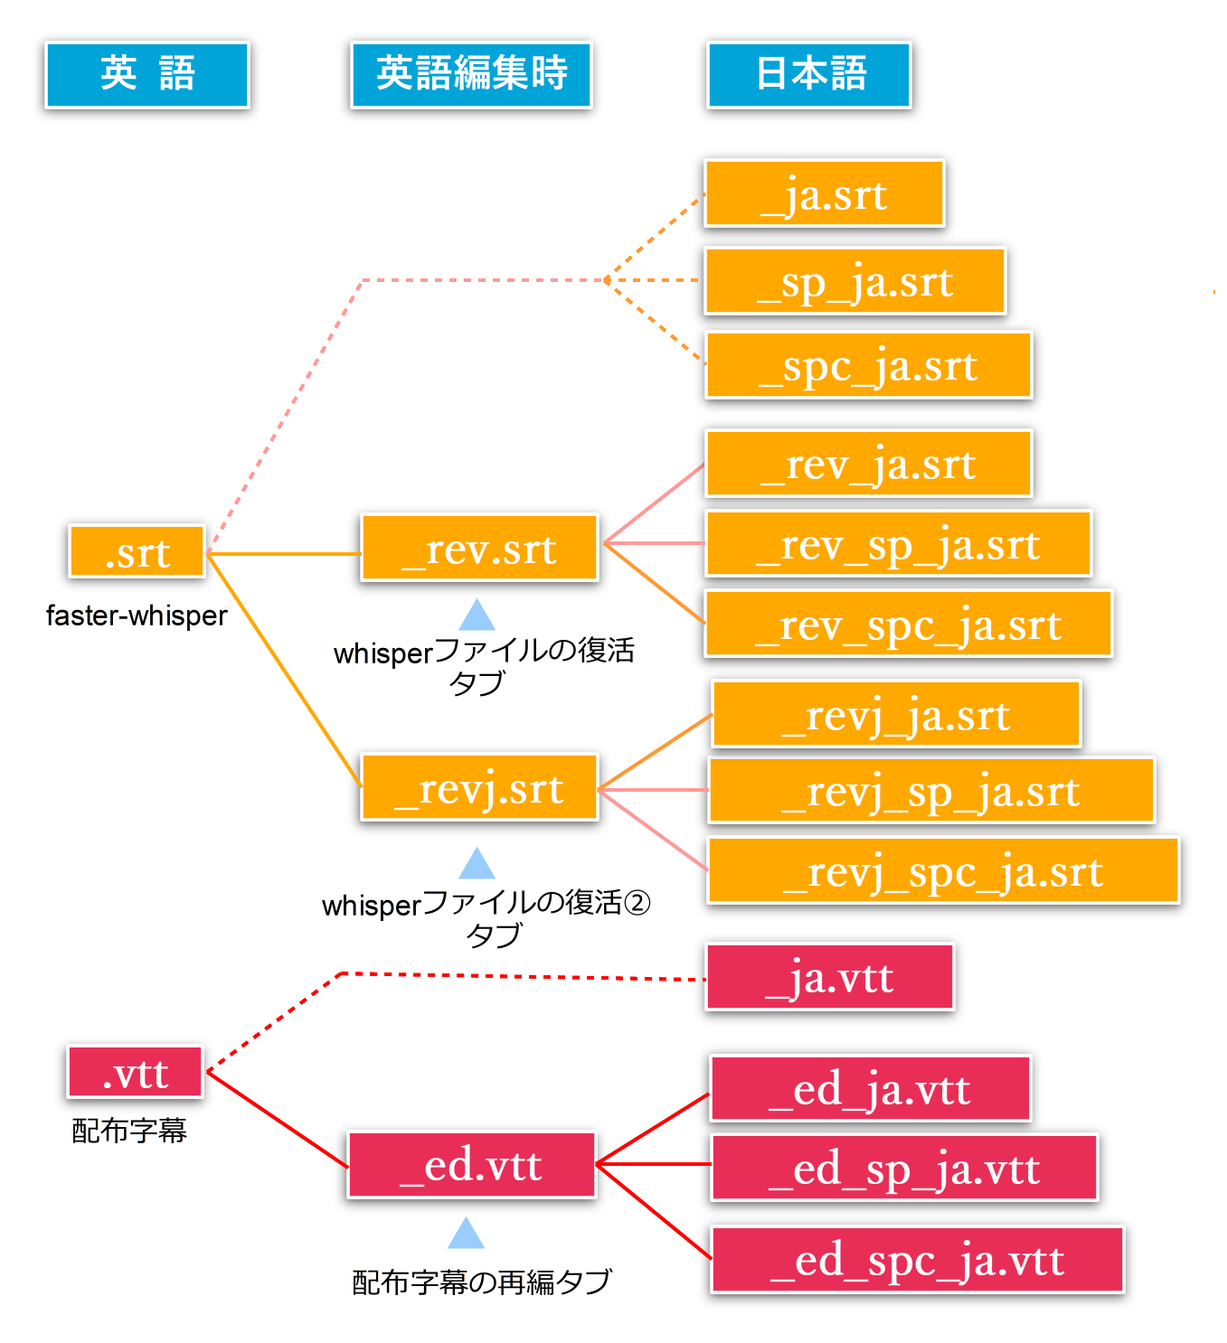
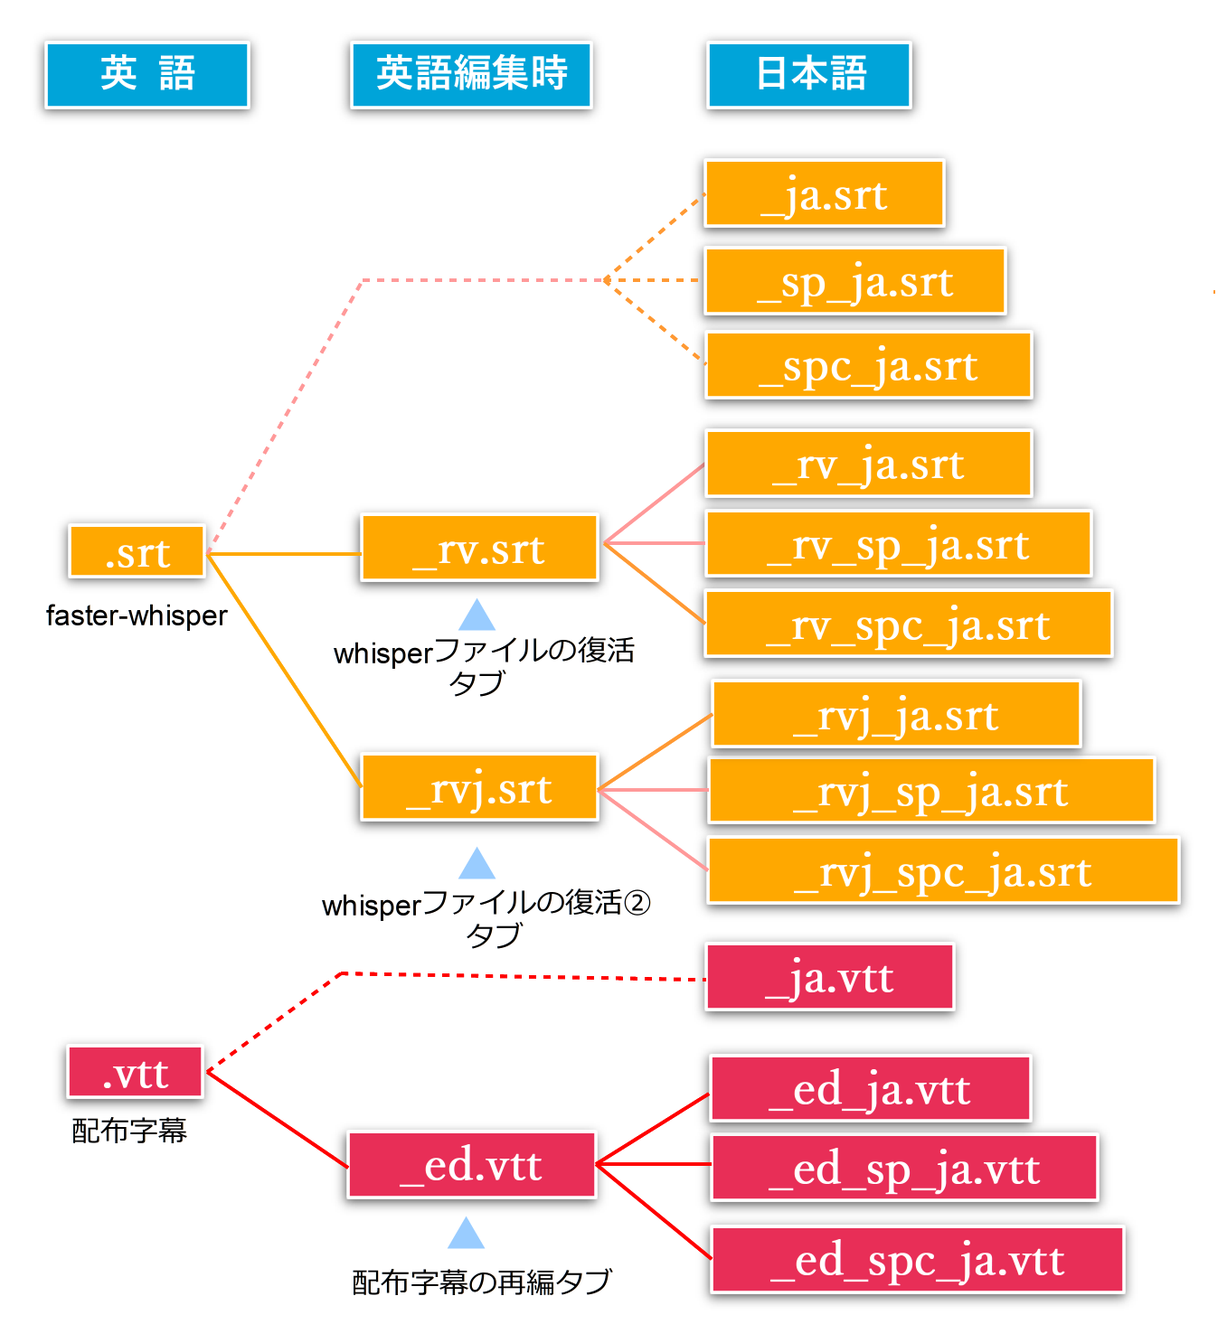
Add files via upload

diff --git a/index.html b/index.html
@@ -249,9 +249,9 @@
                             </div>
                             <!-- 下段のコンテナ -->
                             <div class="card-bottom">
-                                <div class="card-desc"> <strong class="marker_purple">字幕編集/変換アプリ</strong>です。<strong>配布されている字幕</strong>を<span style="color:rgba(41, 164, 96, 0.586);font-weight:bold;">ピリオド区切り</span>のセグメントに再編すること、
+                                <div class="card-desc"><strong class="marker_purple">字幕編集/変換アプリ</strong>です。<strong>配布されている字幕</strong>を<span style="color:rgba(41, 164, 96, 0.586);font-weight:bold;">ピリオド区切り</span>のセグメントに再編すること、
                                     その他翻訳や日本語字幕の句点、読点区切りが可能です。
-                                    また、ピリオドのない英語字幕にピリオドを付加し、ピリオド区切りの英語字幕を作成します。
+                                    また、ピリオドのない英語字幕にピリオドを付加し、ピリオド区切りの英語字幕を作成します。日本語以外の言語に対応していく予定です。
                                 </div>
                             </div>
                         </div>
@@ -372,6 +372,13 @@
                             <p style="display:flex;gap:8px;"><span>※</span>最近新たに加わったlarge-v3-turboは検証しきれていませんが、CPUでも十分使えるのではないかと思っています。</p>
                         </div>
                     </div>
+                    <h3>参考（large-v3,v3-turbo,v2の言語別精度比較)</h3>
+                    <div class="orange_back" style="padding-bottom:15px">
+                        <div> 
+                            <img class="p2top" src="fwscore.png" alt="PeriOz2のトップ画像">
+                            <p style="text-align:center;"><a href="https://github.com/SYSTRAN/faster-whisper/issues/1030">https://github.com/SYSTRAN/faster-whisper/issues/1030</a>より拝借しています。</p>
+                        </div>
+                    </div>
                 </div>
                 <section class="PeriOz1-container" id="p1">
                     <h1 class="underline_blue">PeriOz 1</h1>
@@ -445,6 +452,12 @@
                                 <p>出力指定した出力場所に、既に動画と同じベースネームのjsonファイル、あるいは、srtファイルが存在する場合、当該動画ファイルの文字起こしはスキップされる仕組みになっています。</p>
                             </div>
                         </div>
+                        <h2>その他</h2> 
+                        <div class="blue_box_light"> 
+                            <p>このアプリの主軸は英語の文字起こしですが、日本語、スペイン語、ポルトガル語、ドイツ語、韓国語の文字起こしが可能です。</p> 
+                            <p>最近、Safe Modeという機能を付けました。少し所用時間が増えますがモデルを毎回読み込むことで、メモリのゴミを減らすことを目指しました。本当にSafeなのかは分かりません。</p> 
+                            <p>その他、ファイル名にモデル名やcomputetype名を付加する機能も付けました。ファイル名はPeriOz3の自動読み込みと連携させています。</p> 
+                        </div><br>
                         <h2>PeriOz1のスクリーンショット（現在は若干変わっています。）</h2>
                         <div class="sumaho">
                             <div class="blue_box_light">
@@ -541,9 +554,8 @@
                                 <dt>日本語srt,vtt字幕の句読点分割</dt>
                                 <dd>
                                     <p>英語字幕を日本語化すると、英語では一文とされていたものが、日本語では2つ以上の文章になることが多々あります。そこで、<span class="marker_yellow">句点分割</span>でsegmentを句点を基準に分割します。また、作成される字幕の長さを調整するために<span class="marker_yellow">読点分割</span>も可能です。<strong>デフォルトでは句点のみの分割</strong>です。</p>
-                                    <div style="margin-top:15px;">
-                                        読点分割を適用するにはサイドバーの<strong>「読点分割を有効にする」</strong>をONにして利用してください。サイドバーの句点分割、読点分割のトグルボタンをONにしておくと、他のタブでも句点分割、読点分割を実行できます（日本語化を伴うタブが対象）。
-                                        <p style="display:flex;margin-top:8px;"><span>※</span><span style="display:inline-block;width:8px;"></span><span>読点分割を行う際の設定は、サイドバーの<strong>「読点分割設定」</strong>欄にあり、設定情報をもとに分割を行います。</span> </p>
+                                    <div style="margin-top:15px;">読点分割を適用するにはサイドバーの<strong>「読点分割を有効にする」</strong>をONにして利用してください。サイドバーの句点分割、読点分割のトグルボタンをONにしておくと、他のタブでも句点分割、読点分割を実行できます（翻訳を伴うタブが対象）。
+                                        <p style="display:flex;margin-top:8px;"><span>※</span><span style="display:inline-block;width:8px;"></span><span>読点分割を行う際の設定は、サイドバーの<strong>「読点分割設定」</strong>欄にあり、設定情報をもとに分割を行います。ただ、設定された数字を厳密に適用すると不自然な分割となることが増えるため、調整を入れてあります。おおよその目安と考えてお使い下さい。</span> </p>
                                     </div>
                                 </dd>
                             </div>
@@ -552,7 +564,7 @@
                                 <dd>
                                     <p><strong>字幕内の任意の単語を置換するための単語帳を作ります。</strong>サイドバーの「単語の置き換えを有効にする」がONになっていると各タブで自動的に単語の置き換えが実行されます（英語のファイルを生成する部分をもつTabが対象）。単語帳は3つまで作成できます。</p>
                                     <p style="margin-top:15px;">他の機能は実行したくないけれど、単語の置き換えのみしたい場合は、<strong>「その他」</strong>のタブに単語置き換え用のアコーディオンがありますのでご利用下さい。 </p>
-                                    <p style="margin-top: 15px;">単語帳の編集は概ね触ってみれば分かるかな？とも思いますが、<span class="marker_yellow">UIの制約ゆえ、登録してある単語を削除する場合だけ少し特殊です</span>。登録してある単語表の左側のチェックボックスをチェックしてキーボードにて<strong>Delete</strong>を押せば削除されます。その際、必ず<strong>「保存」</strong>ボタンをおしてください。単語表からは削除されますが、ファイルに記録するには<strong>「保存」</strong>ボタンを押す必要があります。その他の登録、編集は<strong>「保存」</strong>ボタンを押さなくてもファイル記録されます。特定の単語を削除したい場合は置き換える単語に$$$と入力すると、指定した元の単語が削除されます。</p>
+                                    <p style="margin-top: 15px;">単語帳の編集は概ね触ってみれば分かるかな？とも思いますが、<span class="marker_yellow">UIの制約ゆえ、登録してある単語を削除する場合だけ少し特殊です</span>。登録してある単語表の左側のチェックボックスをチェックしてキーボードにて<strong>Delete</strong>を押せば削除されます。その際、必ず<strong>「保存」</strong>ボタンをおしてください。単語表からは削除されますが、ファイルに記録するには<strong>「保存」</strong>ボタンを押す必要があります。その他の登録、編集は<strong>「保存」</strong>ボタンを押さなくてもファイル記録されます。特定の単語を削除したい場合は置き換える単語の欄に$$$と入力すると置き換え先が空欄になるため、字幕中の元の単語が削除されることになります。</p>
                                 </dd>
                             </div>
                             <div> 
@@ -561,6 +573,12 @@
                                     <p style="margin-bottom:8px;"> <strong>ピリオド区切りをする際に、意図しない分割が行われないようにするための管理帳を作成し、これに基づいて不要な分割を避けます。</strong>例えばDr.という単語を登録すると、ピリオドに基づく分割前にDr[dot]に変換され、分割後にDr.に戻すように処理されます。予め、私が調べた範囲のピリオド単語は登録済みです。Dot単語帳の操作はほぼ、単語置き換え管理と同じです。上と同様に削除のときだけ少し操作が特殊です。 </p>
                                     <p style="margin-bottom:8px;display:flex;"><span>※</span><span style="display:inline-block;width:8px;"> </span>これがないと、&quot;He is Dr.
                                     Mike.&quot;という文章が &quot;He is Dr.&quot;、&quot;Mike.&quot;というように2つの文に分けられてしまいます。</p>
+                                </dd>                                 
+                            </div>
+                            <div> 
+                                <dt>翻訳先言語</dt> 
+                                <dd>
+                                    <p ""><strong>翻訳先の言語を指定することで、翻訳後の句点,読点の区切り方が変更されます。また出力ファイル名につくドメインが変わります(掲載の国のうちの一部はまだ対応が終わっていません。)</strong></p>
                                 </dd>                                 
                             </div>
                         </div>
@@ -572,8 +590,8 @@
                                 <p style="margin-bottom:8px;">PeriOz1ではピリオドに基づく分割をした&nbsp;<span class="marker_yellow">basename.srt</span> が生成されます。配布されている字幕ファイルが<span class="marker_yellow"> basename.vtt </span>だったと仮定します。</p>
                                 <p style="margin-bottom:8px;">「<strong style="border-bottom:2px solid orange;">配布字幕の再編</strong>」タブで処理を行うと、<span class="marker_orange"> basename_ed.vtt</span> （edはeditedの略）が生成されます。</p>
                                 <p style="margin-bottom:8px;">faster-whisperの文字起こしで<strong>幻聴現象以外</strong>の欠点が出た場合、「<strong style="border-bottom:2px solid orange;">whisperファイルの復活①</strong>」あるいは「<strong style="border-bottom:2px solid orange;">whisperファイルの復活②</strong>」で処理をします。</p>
-                                <p style="margin-bottom:8px;">その際に、前者で処理をすると<span class="marker_orange"> basename_rev.srt </span>、後者だと<span class="marker_orange">
-                                    basename_revj.srt </span>となります。revはreviveの略、jというのはjsonファイルのみによる復活の意味です。</p>
+                                <p style="margin-bottom:8px;">その際に、前者で処理をすると<span class="marker_orange"> basename_rv.srt </span>、後者だと<span class="marker_orange">
+                                    basename_rvj.srt </span>となります。rvはreviveの略、jというのはjsonファイルのみによる復活の意味です。</p>
                                 <p>「YT字幕の再編」タブで処理した場合は、もとがsrtファイルなら、<span class="marker_orange"> basename_ytp.srt </span>となります。pはpunctuationのことです。</p>
                             </div>
                             <p class="p2_button">日本語ファイル</p>
@@ -582,7 +600,7 @@
                                 日本語字幕ファイル生成時あるいは生成後に、句点分割あるいは句読点分割をした場合、前者のみなら"_sp"（splittedの略）がファイル名につき、後者なら"_spc"（cはcommaから）がファイル名につきます。 </p>
                                 <p>
                                 また、日本語字幕は必ず拡張子の直前に"_ja"がつきます。</p>
-                                <p>よって、日本語字幕生成時以降に <span class="marker_purple">"_ja"</span> , <span class="marker_purple">"_sp_ja"</span> , <span class="marker_purple">"_spc_ja"</span>などが尻尾（以下tailと呼びます）につきます。 </p>
+                                <p>よって、日本語字幕生成時以降に <span class="marker_purple">&quot;_ja&quot;</span> , <span class="marker_purple">&quot;_sp_ja&quot;</span> , <span class="marker_purple">&quot;_spc_ja&quot;</span>などが尻尾（以下tailと呼びます）につきます。※ 日本語以外の言語に変換した場合はスペインなら&quot;_es&quot;のようにその国のドメインがtailとして付加されます。</p>
                                 <div style=" word-break:break-all;text-align: justify;margin-top: 8px;">
                                     英語字幕、日本語字幕の両方を処理するので、"_xxx"が複数付きます。PeriOz3では、basenameとこれらのtailの部分を元に動画ファイルに対応した字幕を各表示部に自動で割り振ります。以下、出力可能なファイル名の一部を添付しますが、必要なものだけ利用します。
 </div>
@@ -612,8 +630,7 @@
                             <p style="margin-bottom: 10px;">Google Chromeの場合、右上の <span class="marker_orange"><span class="material-symbols-outlined g_icon" style="font-size:18px">more_vert</span></span>をクリックし、開いたモーダルウィンドウの下の方にある <span class="marker_orange"><span class="material-symbols-outlined g_icon" style="font-size:16px;">
                                     settings</span>設定</span> を選択します。表示画面の左のメニューから、 <span class="marker_orange"><span class="material-symbols-outlined g_icon" style="font-size:16px">build</span>システム</span>
                             を選び、「グラフィック･･･」のトグルボタンを<strong>ON</strong>にしてください。</p>
-                            <p style="margin-bottom: 10px;">
-                            それでも解決しない場合は、Chromeにインストールされている<strong>拡張機能</strong>や<strong>Windowsの常駐アプリ</strong>（私の経験ではDeepLアプリ）を削除あるいは終了することで改善することがあります。 </p>
+                            <p style="margin-bottom: 10px;">それでも解決しない場合は、Chromeにインストールされている<strong>拡張機能</strong>や<strong>Windowsの常駐アプリ</strong>（私の経験ではDeepLのデスクトップアプリ）を削除あるいは終了することで改善することがあります。</p>
                         </div>
                         <h2>PeriOz2のスクリーンショット</h2>
                         <div class="sumaho">
@@ -735,7 +752,7 @@
                                 以下のような画面が表示されるので、自動読み込みしたいファイルのtailをdropdownメニューから選択します。保存ボタンで選択情報をファイルに保存することで次回以降の自動読み込みに反映されます。 </p>
                                 <p>また、設定後すぐに反映したい場合は「設定を現在の動画に反映」ボタンを押すことで反映されます。</p>
                                 <p style="display: flex;gap:8px;"><span>※</span>各ウィジェットに対し4カ所選ぶ場所（4列）があります。左から順に第1候補から第4候補となります。</p> 
-                                <p style="display: flex;gap:8px;"><span>※</span>最近、現在大分変わりました。更新予定です。</p>
+                                <p style="display: flex;gap:8px;"><span>※</span>現在大分変わりましたので更新予定です。</p>
                                 <p style="text-align: center;"> <img class="fileinfo" src="fileinfo.png" alt="ファイル情報ダイアログの内容説明"></p>
                                 <p style="text-align: center;"> </p>
                             </div>
@@ -834,6 +851,10 @@
                                     <dd>Control+"-"</dd>
                                 </dl>
                             </div>
+                        </div>
+                        <h2>カスタムタイトルバー</h2> 
+                        <div class="blue_box_light"> 
+                            <p>コンテキストメニューの中にタイトルバーを黒にする項目があります。これを選ぶとタイトルバーが黒くなり動画視聴が快適になると思います。ただ、いくつか注意点があります。まず、ウィンドウリサイズの方法が変わります。四隅のいずれかにカーソルを合わせるとハンドルマークが出るのでそれを用いてリサイズします。またカスタムタイトルバーを使う場合、現在のwindow情報が記録されなくなります(次回起動時に現在の情報が反映されない)。現在の情報(windowサイズと位置)を保存したい場合は標準のタイトルバーに戻してから各windowの大きさを調整してください。各windowの大きさは✖印を使って閉じたときに記録されるようになっています。</p> 
                         </div>
                         <h2>PeriOz3のスクリーンショット</h2>
                         <div class="sumaho">
@@ -1277,16 +1298,15 @@
                         <div class="blue_box_light">
                             <p class="marker_yellow" style="margin-bottom:10px;font-weight: 900;">インストールと動作</p>
                             <p style="margin-bottom:5px;margin-top:10px;">PeriOz
-                            SeriesはPeriOz3を除き、AIを動かすために必要なパッケージやファイルを含んでいるため上記紹介の通り非常に重いアプリです。容量も動作も両者重いです。そもそもインストールからして重いはずです。 </p>
+                            SeriesはPeriOz3を除き、AIを動かすために必要なパッケージやファイルを含んでいるため上記動作環境にて紹介の通り非常に重いアプリです。容量も動作も両者重いです。そもそもインストールからして重いはずです。</p>
                             <p style="margin-bottom:15px;">インストーラーは高圧縮することで、PeriOz1は800MB、PeriOz2は650MB、PeriOz3は120MB、PeriOz
-                            Webは750MB程度の容量に抑えられているものの、インストーラーの起動やアプリの起動（特に初回）は一般のアプリに比べ時間がかかります。</p>
+                            Webは750MB程度の容量に抑えられているものの、インストーラーの起動やアプリの起動やプログラムの実行（特に初回）は一般のアプリに比べ時間がかかります。※ 初回はモデルのダウンロード等で時間がかかります。</p>
                             <p style="margin-bottom:15px;">私が購入したり、ダウンロードしたアプリも例外ではありませんでしたから私自身は慣れましたが、試していただける方は多少の覚悟が必要かもしれません。</p>
                             <p style="margin-bottom:15px;">アプリ製作では、字幕精度の点以外に、できる限り誰もが利用できることを目指しました。唯一PeriOz3は他のアプリ（VLC
                             media
                             player）を事前インストールする必要がありますが、それ以外は一般的なアプリ同様に、インストーラーでインストールし、アプリを起動することで利用できると思います（本来は色々準備がいるのです）。 </p>
                             <p style="margin-bottom: 15px;">何が言いたいかというと...重いけれど扱いはおそらく難しくないよという小さな叫びです。是非お試しいただければと思います。</p>
-                            <p style="margin-bottom: 15px;">さて、ここまで読んで下さった方は恐らく英語動画の日本語化に本気であるか、あるいは優しい方でしょう。ここからが本番です。</p>
-                            <p style="margin-bottom: 15px;">字幕制作に思考を巡らせていた中で見つけた世にある便利アプリを最後に紹介しますので、もしかしたら、私のアプリは不要になります（笑） </p>
+                            <p style="margin-bottom: 15px;">それから、HPの最後に、字幕制作に思考を巡らせていた中で見つけた世にある便利アプリを紹介します。多くは無償アプリですが有能なものが多いと思います。是非参考にしてみてください。</p>
                         </div>
                     </div>
                 </section>
